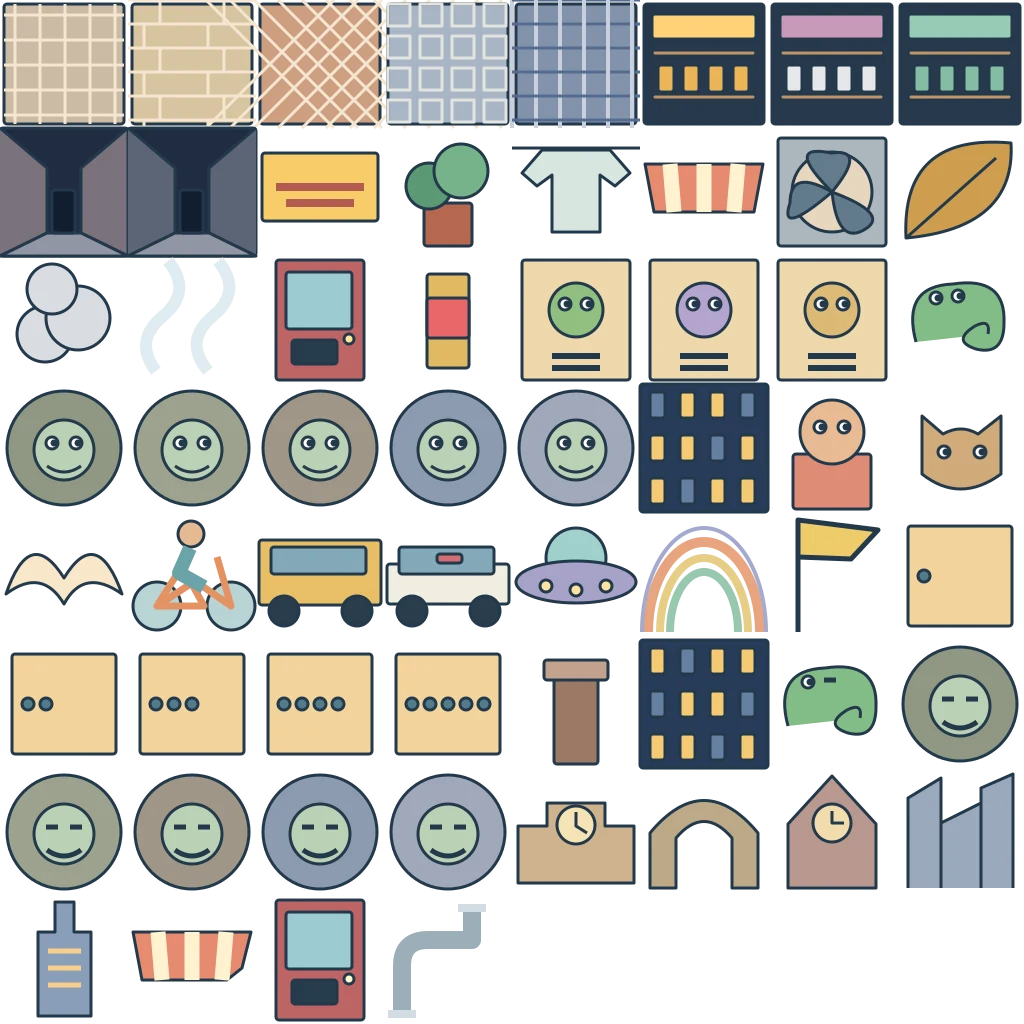
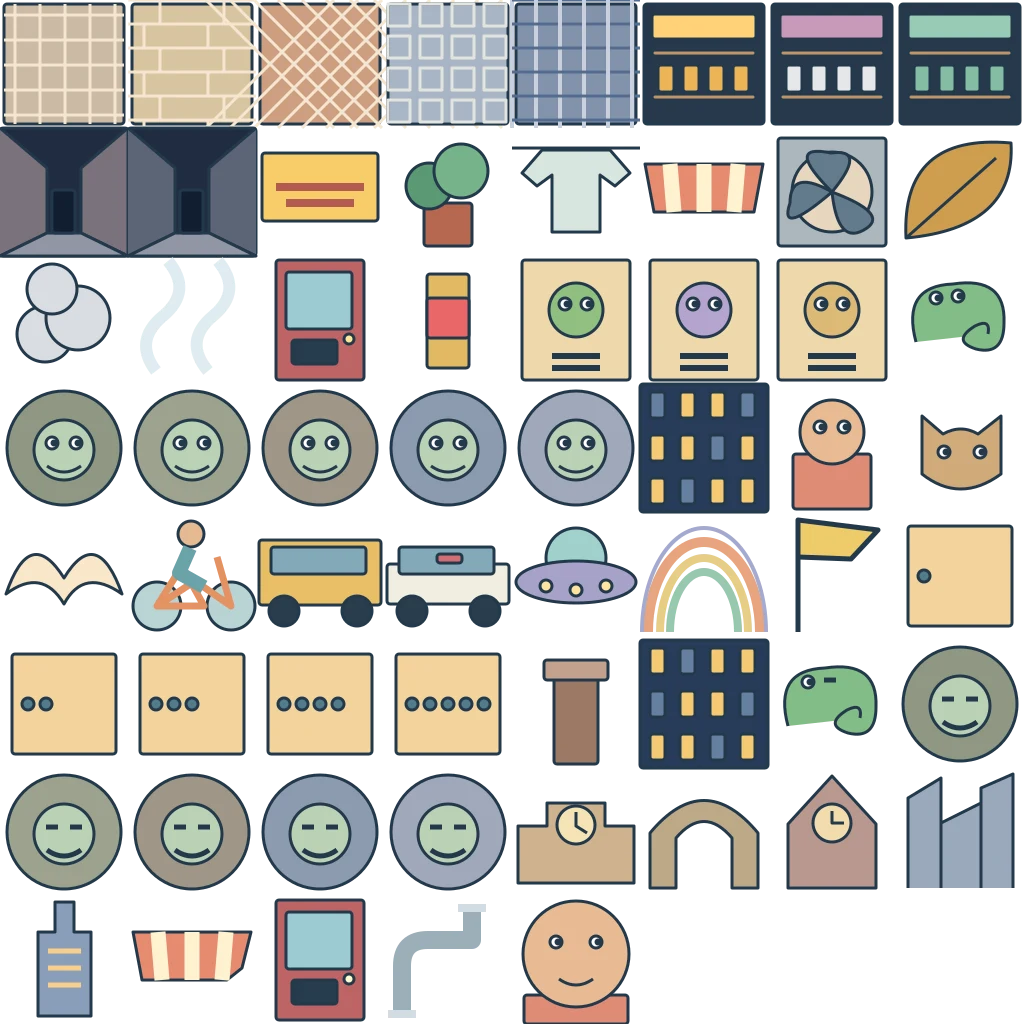
fix: retain paused poses and complete window and result actions

Changed region(s): [[0.5, 0.875, 0.625, 1.0]]

diff --git a/src/presentation/street-accents.js b/src/presentation/street-accents.js
@@ -1,9 +1,10 @@
 import * as THREE from 'three';
 import { createCameoDirector, createSlotRegistry, createCosmeticRng, CAMEOS } from './catalog.js';
 
-const CELLS=['pavement0','pavement1','pavement2','pavement3','pavement4','interior0','interior1','interior2','alley0','alley1','sign','plant','laundry','awning','fan','leaf','smoke','steam','vending','can','poster0','poster1','poster2','chameleon','manhole0','manhole1','manhole2','manhole3','manhole4','windows','resident','cat','bird','bicycle','bus','policeCar','ufo','rainbow','flag','remaining1','remaining2','remaining3','remaining4','remaining5','chimney','windowsWave','chameleonWink','manholeWink0','manholeWink1','manholeWink2','manholeWink3','manholeWink4','landmark0','landmark1','landmark2','landmark3','landmark4','awningFlip','vendingLit','pipe'];
+const CELLS=['pavement0','pavement1','pavement2','pavement3','pavement4','interior0','interior1','interior2','alley0','alley1','sign','plant','laundry','awning','fan','leaf','smoke','steam','vending','can','poster0','poster1','poster2','chameleon','manhole0','manhole1','manhole2','manhole3','manhole4','windows','resident','cat','bird','bicycle','bus','policeCar','ufo','rainbow','flag','remaining1','remaining2','remaining3','remaining4','remaining5','chimney','windowsWave','chameleonWink','manholeWink0','manholeWink1','manholeWink2','manholeWink3','manholeWink4','landmark0','landmark1','landmark2','landmark3','landmark4','awningFlip','vendingLit','pipe','residentFace'];
 const district=b=>b<20?0:b<23?1:b<30?2:b<40?3:4;
 const ENTRY=[1,20,23,30,40];
+const streetFeature=b=>({0:5,1:6,2:7,3:8,4:18,5:19,6:62,7:63,8:64,9:66}[b%10]);
 const DURATIONS=new Map(CAMEOS.map(x=>[x.id,x.ms]));
 const CAMEO_IMAGES={12:'resident',13:'cat',14:'bird',15:'bicycle',16:'bus',36:'policeCar',61:'ufo',65:'rainbow',70:'chameleon'};
 
@@ -38,17 +39,20 @@ export function createStreetAccents({scene,camera=null,slots=[],atlas=null,scope
   const solidMaterial=safe(new THREE.MeshBasicMaterial({color:0xffffff}));
   const boxes=new THREE.InstancedMesh(boxGeometry,solidMaterial,24),roofs=new THREE.InstancedMesh(roofGeometry,solidMaterial,7);
   for(const mesh of [boxes,roofs]){mesh.frustumCulled=false;mesh.renderOrder=5;group.add(mesh);}
-  const dummy=new THREE.Object3D(),color=new THREE.Color();let np=0,nb=0,nr=0,ni=0,staticN=0,particles=0,visibleCameos=0;const artwork=[];
+  const dummy=new THREE.Object3D(),color=new THREE.Color();let np=0,nb=0,nr=0,ni=0,residentWindows=0,staticN=0,particles=0,visibleCameos=0;const artwork=[];
   const place=(mesh,i,x,y,z,sx,sy,sz=1,rz=0,rx=0,ry=0)=>{dummy.position.set(x,y,z);dummy.scale.set(sx,sy,sz);dummy.rotation.set(rx,ry,rz);dummy.updateMatrix();mesh.setMatrixAt(i,dummy.matrix);};
   const sprite=(name,x,y,z,w,h,rz=0,rx=0,kind='static')=>{if(np>=40||kind==='static'&&staticN>=24)return;if(kind==='cameo'){const index=45+visibleCameos;if(index>=48)return;artwork.push(name);const cell=CELLS.indexOf(name);tile.setXY(index,cell%8,7-Math.floor(cell/8));place(cameoSprites,index,x,y,z,w,h,1,rz,rx);visibleCameos++;return;}artwork.push(name);const cell=Math.max(0,CELLS.indexOf(name));tile.setXY(np,cell%8,7-Math.floor(cell/8));place(sprites,np++,x,y,z,w,h,1,rz,rx);if(kind==='static')staticN++;else if(kind==='particle')particles++;};
   const box=(x,y,z,w,h,d,c=0xaab3bc,rz=0)=>{if(staticN>=24)return;place(boxes,nb,x,y,z,w,h,d,rz);boxes.setColorAt(nb++,color.setHex(c));staticN++;};
   function syncSlot(id,building){if(disposed)return;registry.sync(id,building);}
   function draw(view={}) {
-    np=nb=nr=ni=staticN=particles=visibleCameos=0;for(let i=40;i<48;i++)interiors.setMatrixAt(i,hiddenMatrix);for(let i=45;i<48;i++)cameoSprites.setMatrixAt(i,hiddenMatrix);artwork.length=0;
+    np=nb=nr=ni=residentWindows=staticN=particles=visibleCameos=0;for(let i=40;i<48;i++)interiors.setMatrixAt(i,hiddenMatrix);for(let i=45;i<48;i++)cameoSprites.setMatrixAt(i,hiddenMatrix);artwork.length=0;
     const area=district(current),cx=(current-1)*10+5;
     const visible=slots.filter(s=>s.index>0&&s.group?.visible!==false);
+    const residentSlot=cameo?.id===12?visible.find(s=>s.index===cameo.building&&s.deco?.windows>0):null;
+    if(cameo?.id===12&&(!residentSlot||t-cameo.start>=cameo.ms))cameo=null;
     const windowWave=current>=40&&view.phase==='grace'&&t-graceStart<800;
     const furnishingSlots=[...visible].sort((a,b)=>Math.abs(a.index-current)-Math.abs(b.index-current)).slice(0,Math.max(1,(forced===59?2:5-(windowWave?1:0)-(t-gateStart<800||forced===11?1:0))-(visible.some(s=>s.index===current&&s.deco?.kind==='shop')?1:0)));
+    const sourceAge=t-graceStart,sourceFeature=forced??streetFeature(graceBuilding);
     const reacting=visible.find(s=>registry.reaction(slots.indexOf(s),t)>0);
     for(const s of visible){
       const b=s.index,a=district(b),x=s.cx??(b-1)*10+5,h=s.height??7;
@@ -59,10 +63,11 @@ export function createStreetAccents({scene,camera=null,slots=[],atlas=null,scope
       sprite(`pavement${a}`,x,.235,3.7,8.6,1.0,0,-Math.PI/2);
       let name=`alley${Math.floor(b/4)%2}`;
       let px=name.startsWith('alley')?x+(s.width??8.7)/2+.6:x,py=name.startsWith('alley')?2:h+.85,pz=-.12,w=name.startsWith('alley')?1.05:2.0,ph=name.startsWith('alley')?3.4:1.4,rz=0,rx=0;
-      if(b===current){
-        const type=forced??({0:5,1:6,2:7,3:8,4:18,5:19,6:62,7:63,8:64,9:66}[b%10]);
+      const retainSource=b===graceBuilding&&sourceAge>=0&&(sourceFeature===19&&sourceAge<1500||sourceFeature===8&&b%20>=10&&sourceAge<1000);
+      if(b===current||retainSource){
+        const type=retainSource?sourceFeature:forced??streetFeature(b);
         if((type===5||type===47)&&(!reacting||reacting===s)){name='sign';py=h+1;ph=1.2;w=2.5;rz=registry.reaction(slots.indexOf(s),t)*.13||(reducedMotion?0:Math.sin(t/1200*Math.PI*2)*Math.PI/60);}
-        if(type===6){name=b%20<10?'plant':'laundry';py=h+.4;w=1.6;ph=1.7;rz=!reducedMotion&&name==='laundry'?Math.sin(t/2000*Math.PI*2)*Math.PI/90:0;}
+        if(type===6&&(s.deco?.kind==='house'||forced===6)){name=b%20<10?'plant':'laundry';py=h+.4;w=1.6;ph=1.7;rz=!reducedMotion&&name==='laundry'?Math.sin(t/2000*Math.PI*2)*Math.PI/90:0;}
         if(type===7){name='awning';py=h+.15;w=2.5;ph=1;if(!reducedMotion&&(view.phase==='grace'||forced===7)&&t-graceStart<800&&t-graceStart>=0)name='awningFlip';}
         if(type===8){name=b%20<10?'fan':'pipe';py=h+.7;w=ph=1;rz=reducedMotion||name==='pipe'?0:t/8000*Math.PI*2;}
         if(type===18){name=!reducedMotion&&(view.phase==='grace'||forced===18)&&t-graceStart<1000?'vendingLit':'vending';px=x+5;py=1.05;w=1.2;ph=2;}
@@ -74,7 +79,14 @@ export function createStreetAccents({scene,camera=null,slots=[],atlas=null,scope
       if(response>0){name='sign';px=x;py=h+1;w=2.5;ph=1.2;rx=0;rz=reducedMotion?0:response*.13;}
       if(b===current&&(b>=46||forced===58)){name=`remaining${b>=46?51-b:5}`;py=h+1;w=1.4;ph=1.4;rx=0;pz=-.1;}
       if(furnishingSlots.includes(s)&&!(forced===59&&visible.indexOf(s)>=3)){
-        if(s.deco?.kind==='shop'&&s.deco.windows>0&&staticN<24){
+        if(cameo?.id===12&&s===residentSlot){
+          const n=s.deco.windows,k=Math.floor(n/2),instance=40+ni++,cell=CELLS.indexOf('residentFace');
+          const reveal=reducedMotion?1:Math.max(0,Math.sin((t-cameo.start)/cameo.ms*Math.PI));
+          const cy=Math.min(Math.max(h-1.15,5.95),6.9);
+          tile.setXY(instance,cell%8,7-Math.floor(cell/8));
+          place(interiors,instance,x+(k-(n-1)/2)*2.15,cy-.28+.3*reveal,.31,1.08,.5+.3*reveal);
+          artwork.push('residentFace');residentWindows++;
+        }else if(s.deco?.kind==='shop'&&s.deco.windows>0&&staticN<24){
           const n=s.deco.windows,k=Math.floor(n/2),cell=CELLS.indexOf(`interior${b%3}`),instance=40+ni++;
           tile.setXY(instance,cell%8,7-Math.floor(cell/8));
           place(interiors,instance,x+(k-(n-1)/2)*2.15,Math.min(Math.max(h-1.15,5.95),6.9),.3,1.2,1.08);
@@ -107,7 +119,7 @@ export function createStreetAccents({scene,camera=null,slots=[],atlas=null,scope
       if(feature===8&&graceBuilding%20>=10&&age>=0&&age<1000)for(let i=0;i<2;i++)sprite('steam',particleX+.2,(slots.find(s=>s.index===graceBuilding)?.height??7)+1+i*.4+age/1000,-.3,.4,.5,0,0,'particle');
       if(feature===18&&age>=0&&age<1000){sprite('can',cx+5,1.3-Math.sin(age/1000*Math.PI)*.35,-.2,.25,.45,0,0,'reaction');}
     }
-    if(cameo){const elapsed=t-cameo.start,progress=elapsed/cameo.ms,p=reducedMotion?.5:progress;if(progress>=1||progress<0||Math.abs(current-cameo.building)>1)cameo=null;else{
+    if(cameo){const elapsed=t-cameo.start,progress=elapsed/cameo.ms,p=reducedMotion?.5:progress;if(progress>=1||progress<0||Math.abs(current-cameo.building)>1)cameo=null;else if(cameo.id!==12){
       const id=cameo.id,name=CAMEO_IMAGES[id],anchor=(cameo.building-1)*10+5,height=slots.find(s=>s.index===cameo.building)?.height??7;
       const travel=[14,15,16,36,61].includes(id);let x=anchor+(travel?(p*28-14):2),y=[12,13,70].includes(id)?height+Math.sin(p*Math.PI)*.6+.7:id===65?height+6:id===61?height+4:id===14?height+3:1.3;
       if(id===65){x=anchor-.8;y=height+1.8;}
@@ -145,7 +157,7 @@ export function createStreetAccents({scene,camera=null,slots=[],atlas=null,scope
   function setBestDistance(value){best=Number.isInteger(value)&&value>=0&&value<=50?value:null;bestPassed=false;bestPassedAt=-Infinity;}
   function ending(kind,elapsed){if(disposed)return;cameo=null;particles=visibleCameos=0;artwork.length=0;if(kind!=='cleared'){draw({phase:'ended'});return;}np=nb=nr=staticN=0;const x=500,p=reducedMotion?1:Math.max(0,Math.min(1,elapsed/800));box(x,5,-2,.6,10,1,0xc6b58b);box(x+9,5,-2,.6,10,1,0xc6b58b);box(x+4.5,10,-2,10,.6,1,0xc6b58b);box(x+2.2-p*2.2,4,-2,4.4*(1-p)+.02,8,.3,0xb19f78);box(x+6.8+p*2.2,4,-2,4.4*(1-p)+.02,8,.3,0xb19f78);sprites.count=0;roofs.count=0;interiors.count=0;cameoSprites.count=0;boxes.count=nb;boxes.instanceMatrix.needsUpdate=true;}
   function forceEffect(id){if(![1,2,3,4,5,6,7,8,9,10,11,12,13,14,15,16,17,18,19,36,47,53,57,58,59,61,62,63,64,65,66,70].includes(id)||disposed)return false;forced=id;forcedStart=t;if([7,17,18,19,64,66].includes(id))graceStart=t;if(id===47)registry.react(current,t-1);if(CAMEO_IMAGES[id])cameo={id,start:t,ms:DURATIONS.get(id),building:current};if(id===11)gateStart=t;return true;}
-  function stats(){return {visibleArtwork:[...artwork],activeIds:forced&&(!CAMEO_IMAGES[forced]||cameo?.id===forced)?[forced]:[],staticDecorations:staticN,ambientParticles:particles,backgroundGroups:cameo?1:0,backgroundBirds:cameo?.id===14?visibleCameos:0,shopInteriors:ni,drawCalls:5,geometries:3,textures:texture?1:0,...director.stats()};}
+  function stats(){return {visibleArtwork:[...artwork],activeIds:forced&&(!CAMEO_IMAGES[forced]||cameo?.id===forced)?[forced]:[],staticDecorations:staticN,ambientParticles:particles,backgroundGroups:cameo?1:0,backgroundBirds:cameo?.id===14?visibleCameos:0,shopInteriors:ni-residentWindows,residentWindows,drawCalls:5,geometries:3,textures:texture?1:0,...director.stats()};}
   function dispose(){if(disposed)return;disposed=true;registry.clear();winked.clear();cameo=null;group.removeFromParent();planeGeometry.dispose();boxGeometry.dispose();roofGeometry.dispose();spriteMaterial.dispose();interiorMaterial.dispose();cameoMaterial.dispose();solidMaterial.dispose();if(ownsTexture)texture.dispose();}
   scope?.own(dispose);draw({phase:'eval'});
   return {tick,event,syncSlot,setBestDistance,ending,stats,dispose,forceEffect};

diff --git a/src/presentation/result-view.js b/src/presentation/result-view.js
@@ -1,3 +1,4 @@
+import {PORTRAIT_BOUNDS} from './assets/result-atlas-bounds.js';
 import {formatRankAverage} from '../rules/v1/engine.js';
 const ATLAS=new URL('./assets/result-atlas.webp',import.meta.url).href;
 /** Static DOM presentation. The caller supplies the sole shared active clock. */
@@ -8,6 +9,7 @@ export function mountResultPresentation({host,data,scope,t=(key)=>key}){
  const sprite=(node,rect)=>{node.style.backgroundImage=`url("${ATLAS}")`;node.style.backgroundSize=`${2048/rect[2]*100}% ${2048/rect[3]*100}%`;node.style.backgroundPosition=`${rect[0]/(2048-rect[2])*100}% ${rect[1]/(2048-rect[3])*100}%`;};
  const scene=el('div','result-scene result-photo');sprite(scene,[([1,20,23,30,40].indexOf(data.backgroundId)%3)*640,Math.floor([1,20,23,30,40].indexOf(data.backgroundId)/3)*400,640,400]);
  const portrait=el('button','result-portrait',null,scene);portrait.type='button';portrait.setAttribute('aria-label',tr('resultPortraitReaction','Greet the chameleon'));sprite(portrait,[['clear','detected','quit','proud'].indexOf(data.portraitId)*480,960,480,720]);
+ const restingPortraitRect=[['clear','detected','quit','proud'].indexOf(data.portraitId)*480,960,480,720];
  const report=el('div','result-report result-details');
  const score=el('div','result-score',null,report);score.setAttribute('aria-label',`${tr('resultTotal','Total score')}: ${data.summary.score.total}`);const visualScore=el('span','result-score-visual','0',score);visualScore.setAttribute('aria-hidden','true');
  const components=el('div','result-components',null,report);for(const [key,label] of [['pass','Passed'],['accuracy','Accuracy'],['combo','Combo'],['clear','Clear']]){const box=el('div',`result-component result-component-${key}`,`${tr('resultComponent'+key,label)}: ${data.summary.score[key]??0}`,components);box.style.setProperty('--component-fill',`${data.summary.score.total>0?Math.max(0,Math.min(100,(data.summary.score[key]??0)/data.summary.score.total*100)):0}%`);}
@@ -26,7 +28,7 @@ export function mountResultPresentation({host,data,scope,t=(key)=>key}){
  const reduced=doc.defaultView?.matchMedia?.('(prefers-reduced-motion: reduce)').matches;
  function finishNow(){if(disposed)return;finished=true;root.closest('.screen.result')?.classList.add('presentation-complete');root.classList.add('is-complete');scene.classList.add('is-complete');visualScore.textContent=String(data.summary.score.total)}
  function tick(activeMs){if(disposed)return;now=Math.max(now,Number.isFinite(activeMs)?activeMs:now);if(!finished){visualScore.textContent=String(Math.round((data.summary.score.total||0)*Math.min(1,now/600)));if(now>=600)finishNow()}}
- const skip=()=>finishNow(),react=(event)=>{event.stopPropagation();finishNow();root.classList.remove('is-reacting');scene.classList.remove('is-reacting');void portrait.offsetWidth;root.classList.add('is-reacting');scene.classList.add('is-reacting');scope.schedule('result-reaction',400,()=>{root.classList.remove('is-reacting');scene.classList.remove('is-reacting')})};
+ const skip=()=>finishNow(),react=(event)=>{event.stopPropagation();finishNow();root.classList.remove('is-reacting');scene.classList.remove('is-reacting');sprite(portrait,[0,1680,240,360]);void portrait.offsetWidth;root.classList.add('is-reacting');scene.classList.add('is-reacting');scope.schedule('result-reaction',400,()=>{root.classList.remove('is-reacting');scene.classList.remove('is-reacting');sprite(portrait,restingPortraitRect)})};
  root.addEventListener('pointerdown',skip);scene.addEventListener('pointerdown',skip);portrait.addEventListener('click',react);
  const visibility=()=>{root.closest('.screen.result')?.classList.toggle('is-paused',doc.hidden);root.classList.toggle('is-paused',doc.hidden);scene.classList.toggle('is-paused',doc.hidden)};doc.addEventListener('visibilitychange',visibility);visibility();
  function dispose(){if(disposed)return;disposed=true;root.removeEventListener('pointerdown',skip);scene.removeEventListener('pointerdown',skip);portrait.removeEventListener('click',react);doc.removeEventListener('visibilitychange',visibility);scene.remove();report.remove();root.remove()}
@@ -46,5 +48,5 @@ export function mountResultPresentation({host,data,scope,t=(key)=>key}){
   return {activeIds,rendererCount:0,renderers:0,webglRenderers:0,rafCount:0,disposed,finished,score:Number(visualScore.textContent),mapCells:shown(map)?map.children.length:0,gems:shown(report)?data.gems:0,districts:shown(report)?cards.children.length:0,colors:shown(colors)?colors.querySelectorAll('.result-color').length:0,badges:shown(badges)?badges.children.length:0};
  }
 
- return {stats,element:root,sceneElement:scene,detailsElement:report,tick,finishNow,dispose,replayAccepted(){if(!disposed){finishNow();root.classList.add('is-replaying');scene.classList.add('is-replaying');scope.schedule('result-replay',150,()=>{root.classList.remove('is-replaying');scene.classList.remove('is-replaying')})}},updateRank(view){if(disposed)return;const valid=view?.state==='official'&&Number.isSafeInteger(view.rank)&&view.rank>0&&['current','personalBest'].includes(view.label);rank.hidden=!valid;if(!valid){rank.textContent='';return}const signature=`${view.rank}:${view.label}`;rank.textContent=tr(view.label==='current'?'resultCurrentRank':'resultPersonalBestRank',view.label==='current'?'This run’s official rank: {rank}':'Personal best rank: {rank}',{rank:view.rank});if(signature!==rankSignature){rank.classList.add('is-open');rankSignature=signature}}};
+ return {stats,element:root,sceneElement:scene,detailsElement:report,tick,finishNow,dispose,replayAccepted(){if(!disposed){finishNow();sprite(portrait,restingPortraitRect);root.classList.remove('is-reacting');scene.classList.remove('is-reacting');const target=doc.querySelector('[data-testid="result-again"]');if(target){const from=portrait.getBoundingClientRect(),to=target.getBoundingClientRect(),bounds=PORTRAIT_BOUNDS[data.portraitId];const feetX=from.left+from.width*((bounds.minX+bounds.maxX+1)/2/bounds.width),feetY=from.top+from.height*((bounds.maxY+1)/bounds.height);portrait.style.setProperty('--result-jump-x',`${to.left+to.width/2-feetX}px`);portrait.style.setProperty('--result-jump-y',`${to.top-feetY}px`)}root.classList.add('is-replaying');scene.classList.add('is-replaying');scope.schedule('result-replay',150,()=>{root.classList.remove('is-replaying');scene.classList.remove('is-replaying')})}},updateRank(view){if(disposed)return;const valid=view?.state==='official'&&Number.isSafeInteger(view.rank)&&view.rank>0&&['current','personalBest'].includes(view.label);rank.hidden=!valid;if(!valid){rank.textContent='';return}const signature=`${view.rank}:${view.label}`;rank.textContent=tr(view.label==='current'?'resultCurrentRank':'resultPersonalBestRank',view.label==='current'?'This run’s official rank: {rank}':'Personal best rank: {rank}',{rank:view.rank});if(signature!==rankSignature){rank.classList.add('is-open');rankSignature=signature}}};
 }

diff --git a/src/scene/street.js b/src/scene/street.js
@@ -1030,7 +1030,7 @@ export function createThreeStage(container, { course, decorations, rules = RULES
   }
 
   /** 警察官の位置・動き・記号。mode は 'run'・'search'・'chase'。 */
-  function updatePolice(dt, stage, mode, { near = FERRET_NEAR, withBeam = true, walking = true } = {}) {
+  function updatePolice(dt, stage, mode, { near = FERRET_NEAR, withBeam = true, walking=true,freeze=false }={}) {
     ferrets.forEach((f, i) => {
       const active = stage > i;
       // 見失った時は少し下がり、見つけた時は詰める
@@ -1053,7 +1053,7 @@ export function createThreeStage(container, { course, decorations, rules = RULES
         ferretMode[i] = m;
       }
       if (!show || !active) fx.hideIcon(i);
-      f.animate(dt, { walking: walking || !active, mode: m });
+      if(!freeze)f.animate(dt,{walking:walking||!active,mode:m});
       const hop = f.hop * FERRET_SCALE;
       const sh = 1 - Math.min(0.5, hop * 0.3);
       ferretShadows[i].scale.set(2.6 * sh, 1.6 * sh, 1);
@@ -1229,7 +1229,7 @@ export function createThreeStage(container, { course, decorations, rules = RULES
         accents?.ending(ending.kind,now);
         applyEnding(dt, now);
       } else {
-        hero.animate(dt, { walking, nervous });
+        if(view.running)hero.animate(dt,{walking,nervous});
         // 警察：通常は画面外。段階に応じて主人公の後ろ（同じ歩道の並び）へ走り込み、回復で後退する
         if (policeStage > lastPoliceStage) {
           const i = Math.min(ferrets.length, policeStage) - 1;
@@ -1239,7 +1239,7 @@ export function createThreeStage(container, { course, decorations, rules = RULES
         }
         lastPoliceStage = policeStage;
         const mode = policeStage > 0 && (matchState === 'success' || (matchState == null && searching)) ? 'search' : policeStage > 0 && matchState === 'danger' ? 'chase' : 'run';
-        updatePolice(dt, policeStage, mode, { walking });
+        updatePolice(dt,policeStage,mode,{walking,freeze:!view.running});
         presentationScope.tick(view.t);
         reactions?.tick(view);
         accents?.tick(view);

diff --git a/src/guidance/view.js b/src/guidance/view.js
@@ -4,6 +4,6 @@ export function mountGuidance({host,controls,onContinue=()=>{},onSkip=()=>{}}) {
   const title=h('span',{class:'guidance-title'}),value=h('strong',{class:'guidance-match'}),status=h('span',{class:'guidance-status'});
   const next=h('button',{class:'btn primary','data-testid':'guide-go',onClick:onContinue},t('guidance.continue'));
   const skip=h('button',{class:'btn','data-testid':'guide-skip',onClick:onSkip},t('guidance.skip'));
-  const el=h('div',{class:'guidance-panel','data-testid':'guidance'},[title,value,status,h('span',{class:'guidance-instruction'},t('guidance.instruction')),h('div',{class:'guidance-actions'},[next,skip])]);host.append(el);
+  const el=h('div',{class:'guidance-panel','data-testid':'guidance',hidden:true},[title,value,status,h('span',{class:'guidance-instruction'},t('guidance.instruction')),h('div',{class:'guidance-actions'},[next,skip])]);host.append(el);
   return {el,render(v){el.hidden=!v?.step;if(!v?.step){controls.setGuideTarget(null);return;}title.textContent=t(`guidance.step${v.step}`);value.textContent=`${(v.matchUnits/1000000).toFixed(2)}%`;status.textContent=t(v.matchUnits>=95000000?'guidance.ready':'guidance.almost');next.hidden=!v.stationary;next.disabled=!v.canContinue;controls.setGuideTarget({...v.target,showBrightness:v.step>=3});},dispose(){controls.setGuideTarget(null);el.remove();}};
 }

diff --git a/src/ui/presentation.css b/src/ui/presentation.css
@@ -73,3 +73,8 @@
 .guidance-host{top:calc(var(--safe-top,0px) + 88px)}
 .guidance-actions{display:flex;flex-wrap:nowrap}.guidance-actions .btn{width:auto;flex:1;min-width:0}
 @media(orientation:landscape) and (max-height:500px){.guidance-host{top:84px}.guidance-actions{flex:0 0 auto}.guidance-actions .btn{flex:0 1 auto}}
+/* The replay image lands with its feet on the actual replay control. */
+.result-scene.result-photo.is-replaying{overflow:visible;z-index:5}
+.is-replaying .result-portrait{animation:result-replay-jump .15s linear both;pointer-events:none}
+.is-reacting:not(.is-replaying) .result-portrait{animation:none}
+@keyframes result-replay-jump{0%{transform:translate(0,0)}50%{transform:translate(calc(var(--result-jump-x,0px)*.5),calc(var(--result-jump-y,0px)*.5 - 28px))}100%{transform:translate(var(--result-jump-x,0px),var(--result-jump-y,0px))}}

diff --git a/src/scene/chameleon28.js b/src/scene/chameleon28.js
@@ -495,8 +495,11 @@ export function createChameleon(design = CHAMELEON28) {
   const guardedGeo = taperedTube(new THREE.CatmullRomCurve3(guardedPoints), 96, 14, (t) => Math.max(0.006, tailR * (1 - P.tp * t * 0.96) + tailR * 0.1 * (1 - P.tp) * t));
   const tailGuarded = guardedGeo.attributes.position.array.slice();
   guardedGeo.dispose();
+  let lastTailGuard=0;
   function setTailGuard(amount) {
-    const k = Math.max(0, Math.min(1, amount));
+    const k=Math.max(0,Math.min(1,amount));
+    if(k===lastTailGuard)return;
+    lastTailGuard=k;
     const a = tailGeo.attributes.position.array;
     for (let i = 0; i < a.length; i++) a[i] = tailRest[i] + (tailGuarded[i] - tailRest[i]) * k;
     tailGeo.attributes.position.needsUpdate = true;

diff --git a/src/app.js b/src/app.js
@@ -818,7 +818,7 @@ class App {
       controls.setEnabled(!this.takenOver && !document.hidden && (this.coverEl?.hidden ?? true) && (session.running || v.stationary));
     };
     const guideDone = (skip) => {
-      if (!current() || document.hidden || this.takenOver) return;
+      if(!ready||!current()||document.hidden||this.takenOver)return;
       const resumed = skip ? guidance.skip(performance.now()) : guidance.continue(performance.now());
       if(resumed)this.saveNow('guide');
       renderGuide();

diff --git a/src/presentation/actor-reactions.js b/src/presentation/actor-reactions.js
@@ -72,6 +72,9 @@ export function createActorReactions({ hero, police = [], scope, reducedMotion =
   }
   function tick(view) {
     if(disposed || !view) return;
+    // Pause retains the rendered pose and props. The scene must also skip base
+    // actor animators while paused so their wrapped restoration cannot run.
+    if(!view.running && view.phase!=='ended') return;
     restore();
     for(const ps of props) for(const p of Object.values(ps)) p.visible=false;
     if(sweat)sweat.visible=false;

diff --git a/src/presentation/assets/result-atlas-bounds.js b/src/presentation/assets/result-atlas-bounds.js
@@ -1,0 +1,2 @@
+// Generated authoring-time alpha bounds; no runtime image reads.
+export const PORTRAIT_BOUNDS={"clear":{"minX":126,"minY":138,"maxX":375,"maxY":563,"width":480,"height":720},"detected":{"minX":63,"minY":130,"maxX":415,"maxY":565,"width":480,"height":720},"quit":{"minX":151,"minY":115,"maxX":373,"maxY":562,"width":480,"height":720},"proud":{"minX":55,"minY":143,"maxX":377,"maxY":565,"width":480,"height":720}};

diff --git a/assets/credits.md b/assets/credits.md
@@ -44,7 +44,7 @@
 
 ### 結果画面の固定画像（追加演出80件）
 
-`src/presentation/assets/result-atlas.webp` は2048×2048pxの共用WebPです。5地区の背景は本作向けのCanvas図形、4姿勢（clear/detected/quit/proud）の主人公は持ち主提供のNo.28設定と既存`src/scene/chameleon28.js`から制作時にChromium/Three.jsで描画しました。領域は`result-atlas.json`、再制作手順は`scripts/render-result-atlas.mjs`です。文字・成績は画像に含めず、表示時の撮影・画像生成・画像保存は行いません。Three.jsのライセンスは`vendor/three.LICENSE`を参照してください。
+`src/presentation/assets/result-atlas.webp` は2048×2048pxの共用WebPです。5地区の背景は本作向けのCanvas図形、4姿勢（clear/detected/quit/proud）と目配せ反応（glance）の主人公は持ち主提供のNo.28設定と既存`src/scene/chameleon28.js`から制作時にChromium/Three.jsで描画しました。領域は`result-atlas.json`、再制作手順は`scripts/render-result-atlas.mjs`です。文字・成績は画像に含めず、表示時の撮影・画像生成・画像保存は行いません。Three.jsのライセンスは`vendor/three.LICENSE`を参照してください。
 
 ### Street presentation atlas
 
